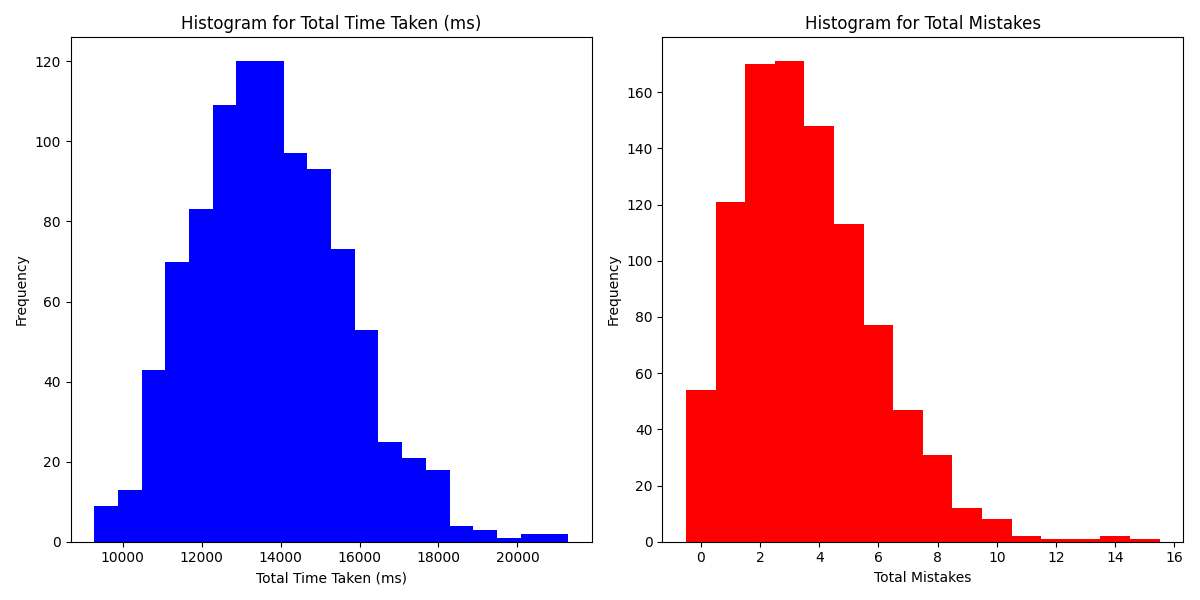
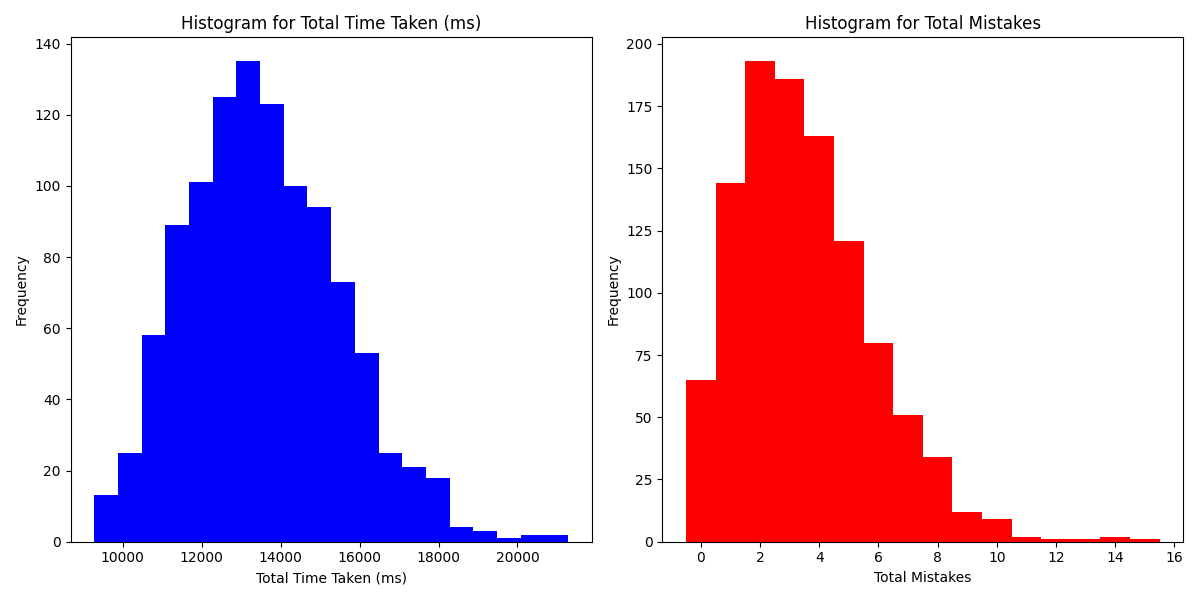
Session 11

diff --git a/analysis/generate_agg_data.py b/analysis/generate_agg_data.py
@@ -103,7 +103,7 @@ def generate_agg_data(sessions):
     print("Aggregate data generated successfully.")
 
 
-upr = 11
+upr = 12
 
 generate_agg_data([str(i) for i in range(1, upr)])
 generate_lm(

diff --git a/analysis/generate_session_data.py b/analysis/generate_session_data.py
@@ -8,7 +8,7 @@ from generate_rolling import generate_rolling
 
 session_ID = "n"
 
-for i in range(1, 11):
+for i in range(11, 12):
     session_ID = str(i)
 
     localStorage_to_raw(session_ID)
